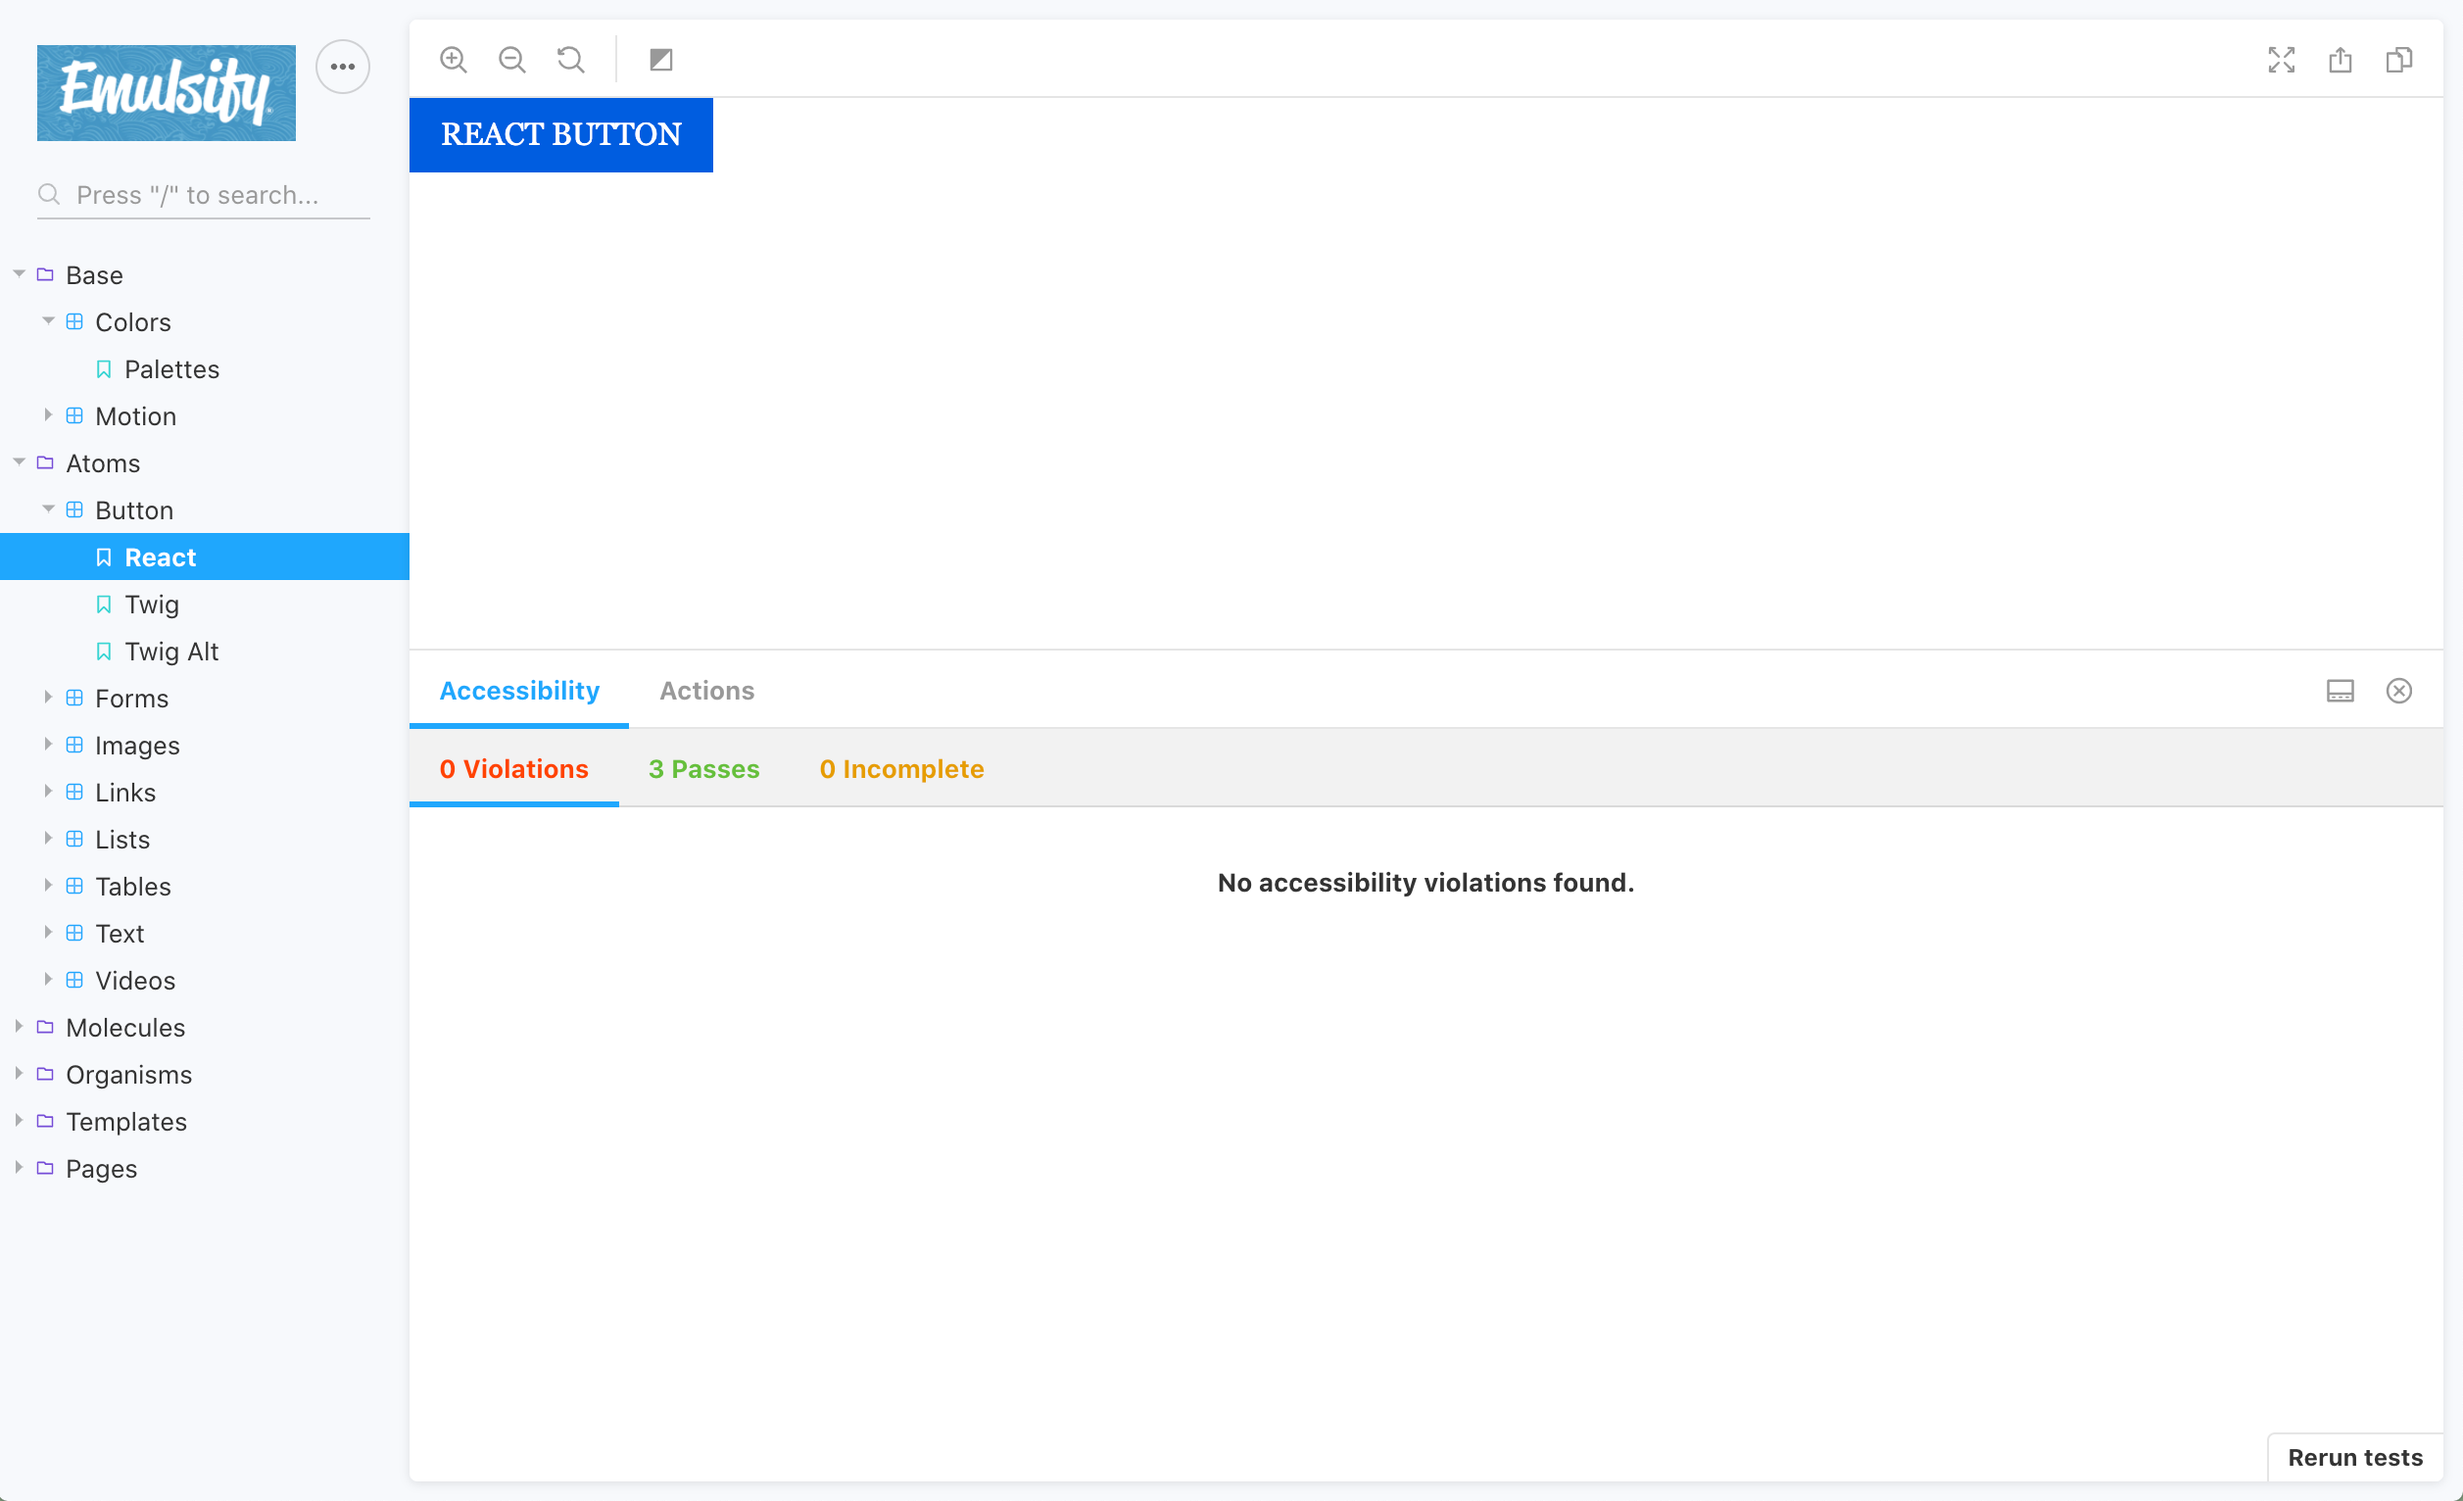
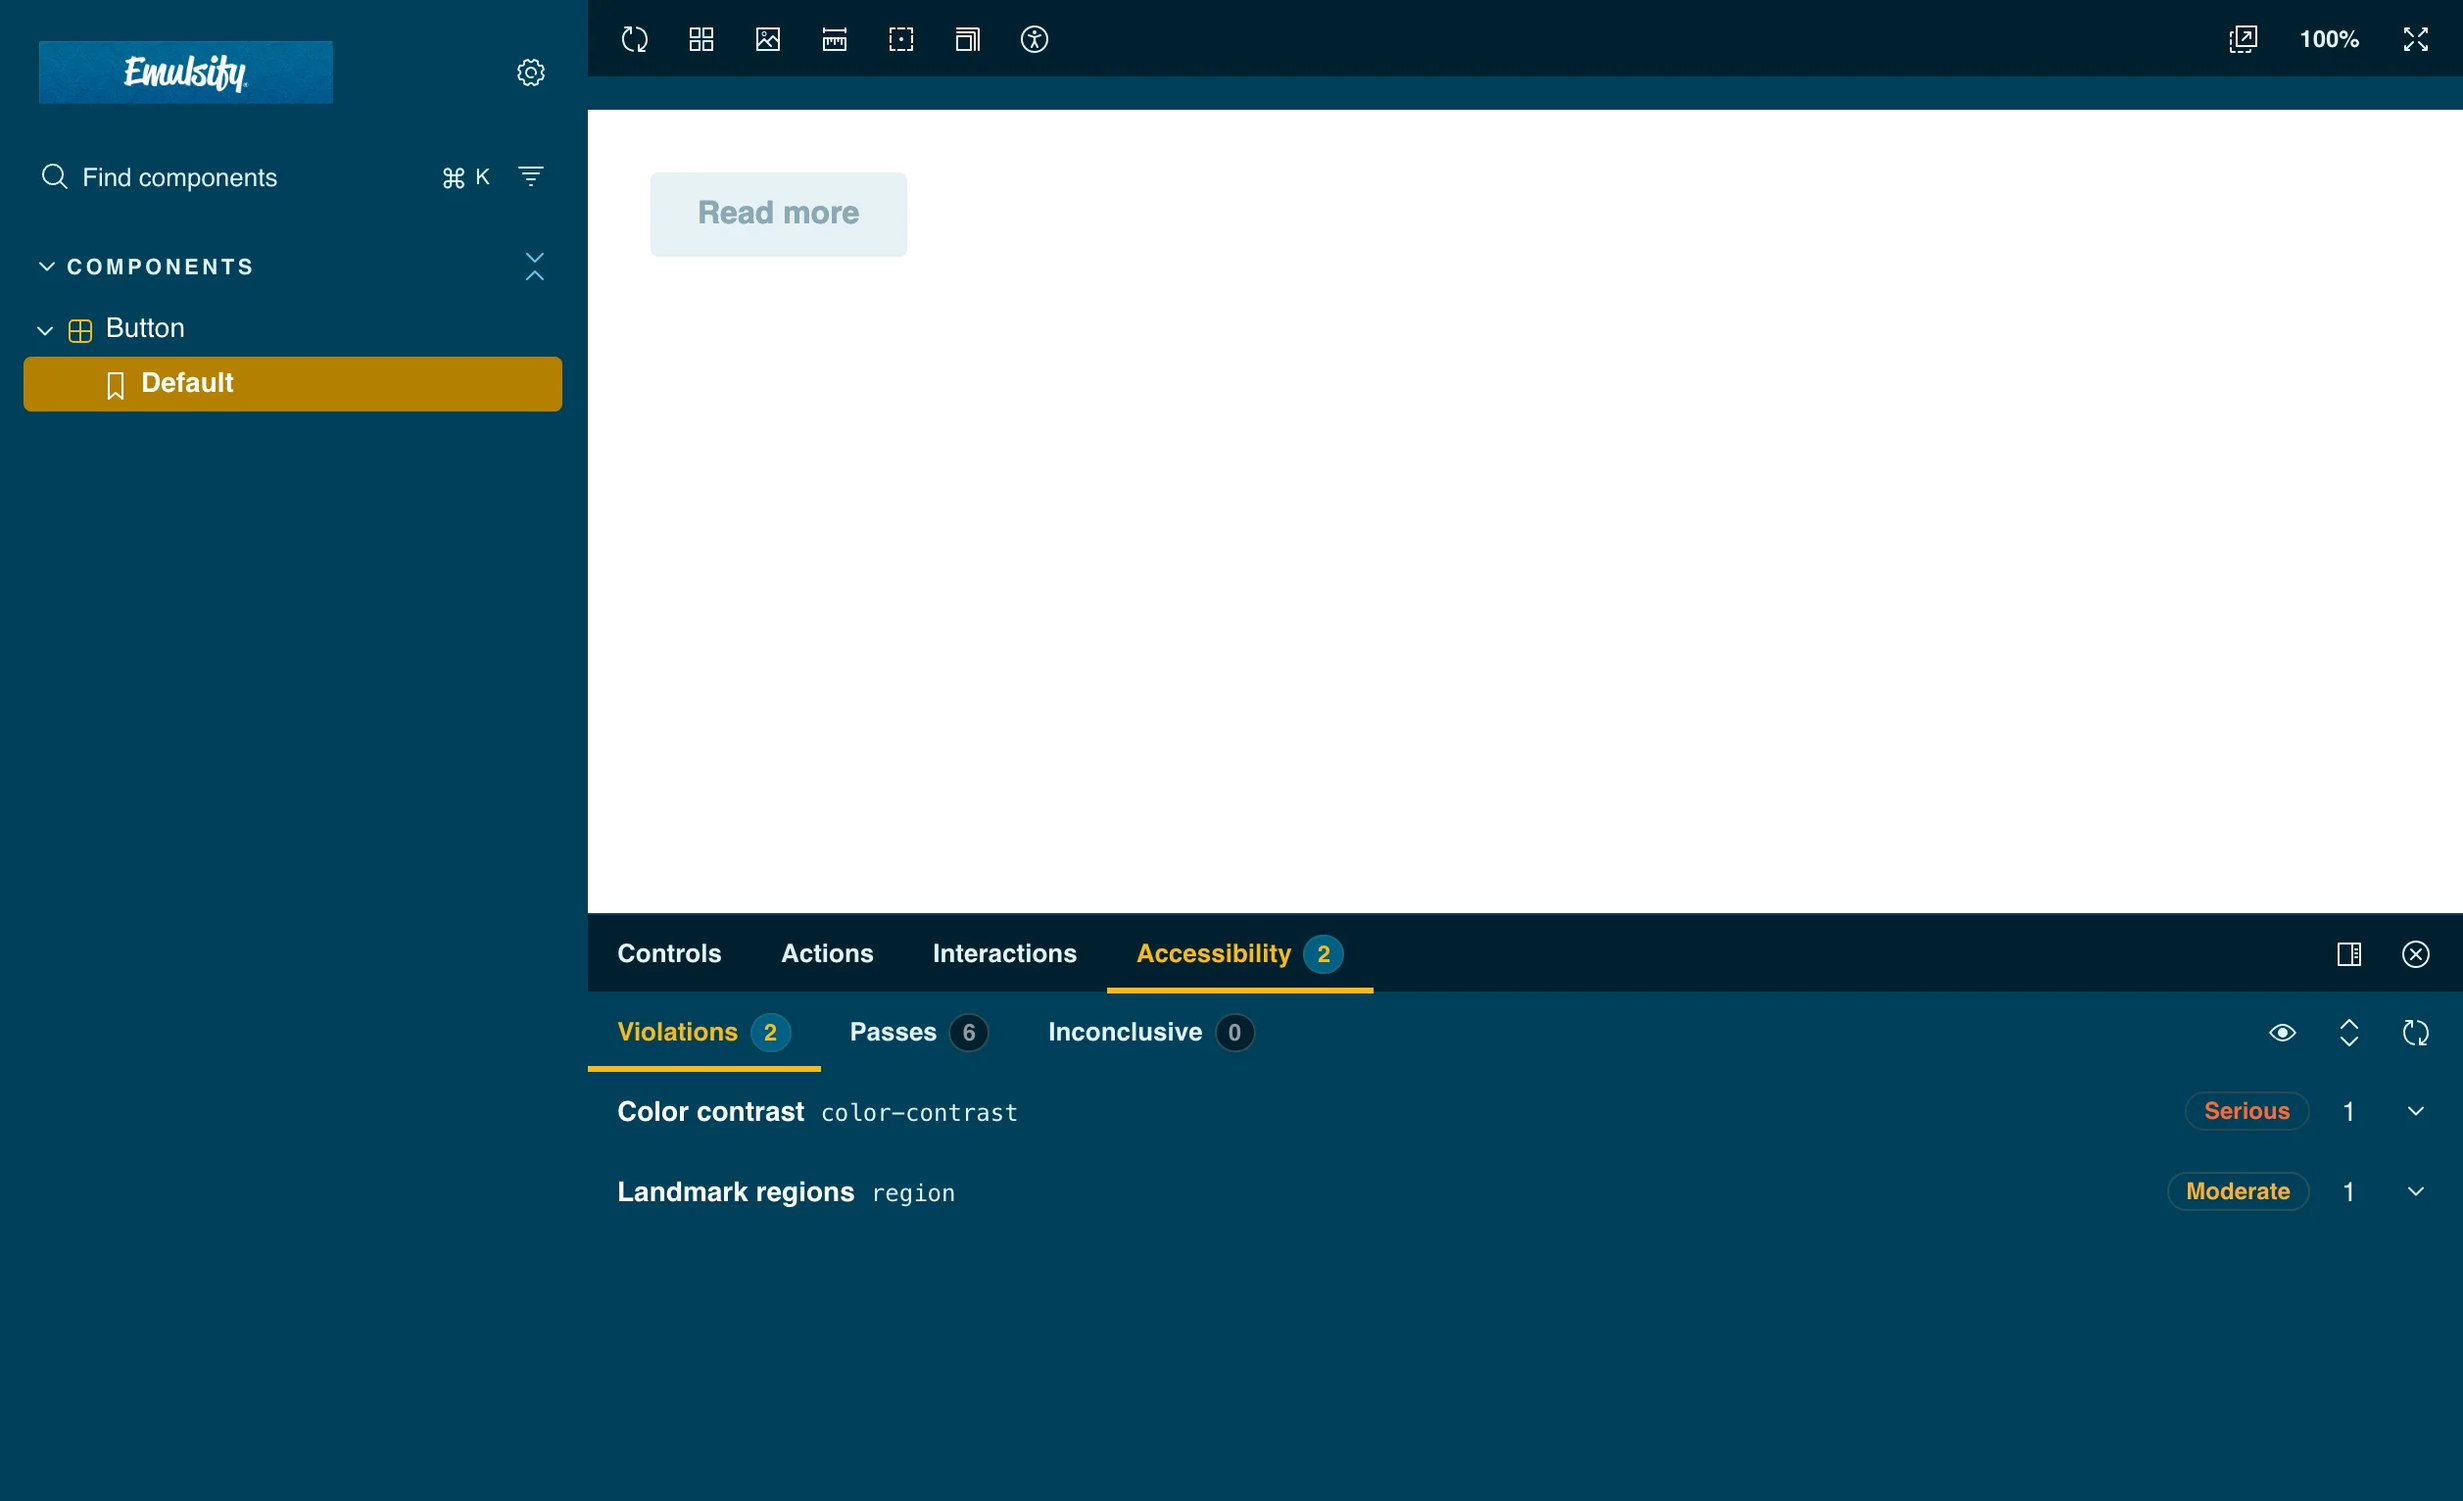
docs: update accessibility testing for emulsify core 4.5

diff --git a/src/pages/docs/supporting-projects/emulsify-core/advanced-usage/accessibility-testing.md b/src/pages/docs/supporting-projects/emulsify-core/advanced-usage/accessibility-testing.md
@@ -1,23 +1,104 @@
 ---
 title: Accessibility Testing
 pageTitle: Accessibility Testing
-description: ''
+description: Test Emulsify components with the Storybook a11y addon and the Pa11y-based npm run a11y command.
 ---
 
-Emulsify Drupal has multiple ways of testing accessibility.
+Emulsify Core provides two ways to test accessibility: the Storybook a11y addon, for testing while you work, and a Pa11y-based command-line check that can fail a CI build.
 
-## Storybook a11y Addon
+## Storybook a11y addon
 
-Emulsify Drupal uses Storybook's [a11y addon](https://github.com/storybookjs/storybook/tree/master/addons/a11y), and it is the default panel open in Storybook's addons pane. This makes it easy to verify the components you build are accessible in the UI.&#x20;
+Emulsify Core enables Storybook's [Accessibility addon](https://storybook.js.org/docs/writing-tests/accessibility-testing) (`@storybook/addon-a11y`) by default. Open the **Accessibility** panel in Storybook's addons pane to see the violations, passes and inconclusive checks for the current story.
 
-![Accessibility testing screenshot.](/images/accessibility-testing.webp)
+![Storybook Accessibility panel showing violations for a button story.](/images/accessibility-testing.webp)
 
-### Accessibility Tests (CLI)
+By default, the addon runs axe-core rules tagged `wcag2a`, `wcag2aa`, `wcag21a`, `wcag21aa`, `wcag22aa` and `best-practice`, with detailed reports enabled.
 
-The Storybook panel pane is excellent for passive testing, but if you want to utilize more active tests (that will fail on CI builds or not allow commits), then you can use the CLI tool. This can be used in the following ways:
+To change the addon parameters, export them from `config/emulsify-core/storybook/preview.js`. Emulsify Core merges your overrides into its defaults, so a partial `a11y` object keeps the other defaults:
 
-1. Command: `npm run a11y`
-2. As a part of tests: `npm run test`
-3. Coverage report: `npm run coverage`
+```js
+// config/emulsify-core/storybook/preview.js
+export const parameters = {
+  a11y: {
+    config: {
+      detailedReport: false,
+    },
+  },
+};
+```
 
-The CLI tool is flexible and can be configured to meet your project needs. Edit the [a11y.config.js](https://github.com/emulsify-ds/emulsify-drupal/blob/master/a11y.config.js) file to set the level of severity you want to see, codes to be ignored, the runner to use and what components you would like to test.
+## Accessibility tests (CLI)
+
+The Storybook panel is great for testing while you work. For checks that can fail a CI build, run the command-line check from your theme directory:
+
+```bash
+npm run a11y
+```
+
+This builds your assets and a static Storybook (`npm run storybook-build`, output in `.out`), then runs Emulsify Core's Pa11y script (axe runner) against your stories. It needs an environment that can launch a headless Chrome browser. On Linux hosts and containers, see Emulsify Core's [Linux browser dependencies](https://github.com/emulsify-ds/emulsify-core/blob/main/docs/accessibility.md#linux-browser-dependencies).
+
+The command exits with status 1 if any story has reportable findings or if a check fails to run, so you can use it as a CI gate. `npm run test` runs your project's Jest tests and does **not** run the accessibility check.
+
+### Configuring the CLI check
+
+Your theme's `config/emulsify-core/a11y.config.js` configures the check. Values you set replace Emulsify Core's [defaults](https://github.com/emulsify-ds/emulsify-core/blob/main/config/a11y.config.js), and the `pa11y` object is merged with Core's Pa11y options.
+
+```js
+// config/emulsify-core/a11y.config.js
+export default {
+  // Ignore specific findings by axe rule ID or description.
+  ignore: {
+    // Example: codes: ['bypass'],
+    codes: [],
+    descriptions: [],
+  },
+  // Extra Storybook story IDs to scan, in addition to stories
+  // discovered from the built Storybook's index.json.
+  // Keep this array, even when empty. Without it, Core scans its own
+  // example story IDs, which don't exist in your theme.
+  components: [],
+  // Set to false to scan only the IDs listed in `components`.
+  discoverStories: true,
+  // Maximum number of Pa11y checks (browsers) run at once. Default: 2.
+  concurrency: 2,
+  // Extra Pa11y options, merged over Core's defaults
+  // (axe runner; notices and warnings excluded).
+  pa11y: {},
+};
+```
+
+Stories render on their own, without the rest of the page, so the check can report page-level rules such as `bypass`. If a rule does not apply to your components, add its axe rule ID to `ignore.codes`.
+
+If the built Storybook `index.json` is missing or malformed, the script prints a warning and falls back to the IDs in `components`. If that list is empty, nothing is scanned and the command still exits with status 0.
+
+In Docker containers, Chrome often can't use its sandbox and fails to launch (`No usable sandbox!` or `Running as root without --no-sandbox`). If you see one of these errors in CI, pass `--no-sandbox` through the Pa11y options. Only use it in CI, where you trust the stories being scanned:
+
+```js
+// config/emulsify-core/a11y.config.js
+export default {
+  // ...your existing settings
+  pa11y: {
+    chromeLaunchConfig: { args: ['--no-sandbox'] },
+  },
+};
+```
+
+### Optional WCAG 2.2 checks
+
+The Storybook panel already runs the `wcag22aa` rules. The CLI check uses Pa11y's axe runner, which selects only WCAG 2.0 and 2.1 rules by default. Emulsify Core 4.5 and later include an optional preset that adds the WCAG 2.2 rules supported by the axe runner (currently `target-size`):
+
+```js
+// config/emulsify-core/a11y.config.js
+import wcag22 from '@emulsify/core/a11y/wcag22';
+
+export default {
+  // ...your existing settings
+  pa11y: {
+    ...wcag22.pa11y,
+  },
+};
+```
+
+`pa11y.rules` arrays replace rather than concatenate. If you already set `rules`, include your existing rule IDs alongside `...wcag22.pa11y.rules`. If you override `pa11y.runners`, keep `axe` in the list.
+
+Automated checks don't establish full WCAG conformance. Manual testing, including keyboard access, focus behavior and assistive technology, is still required.
